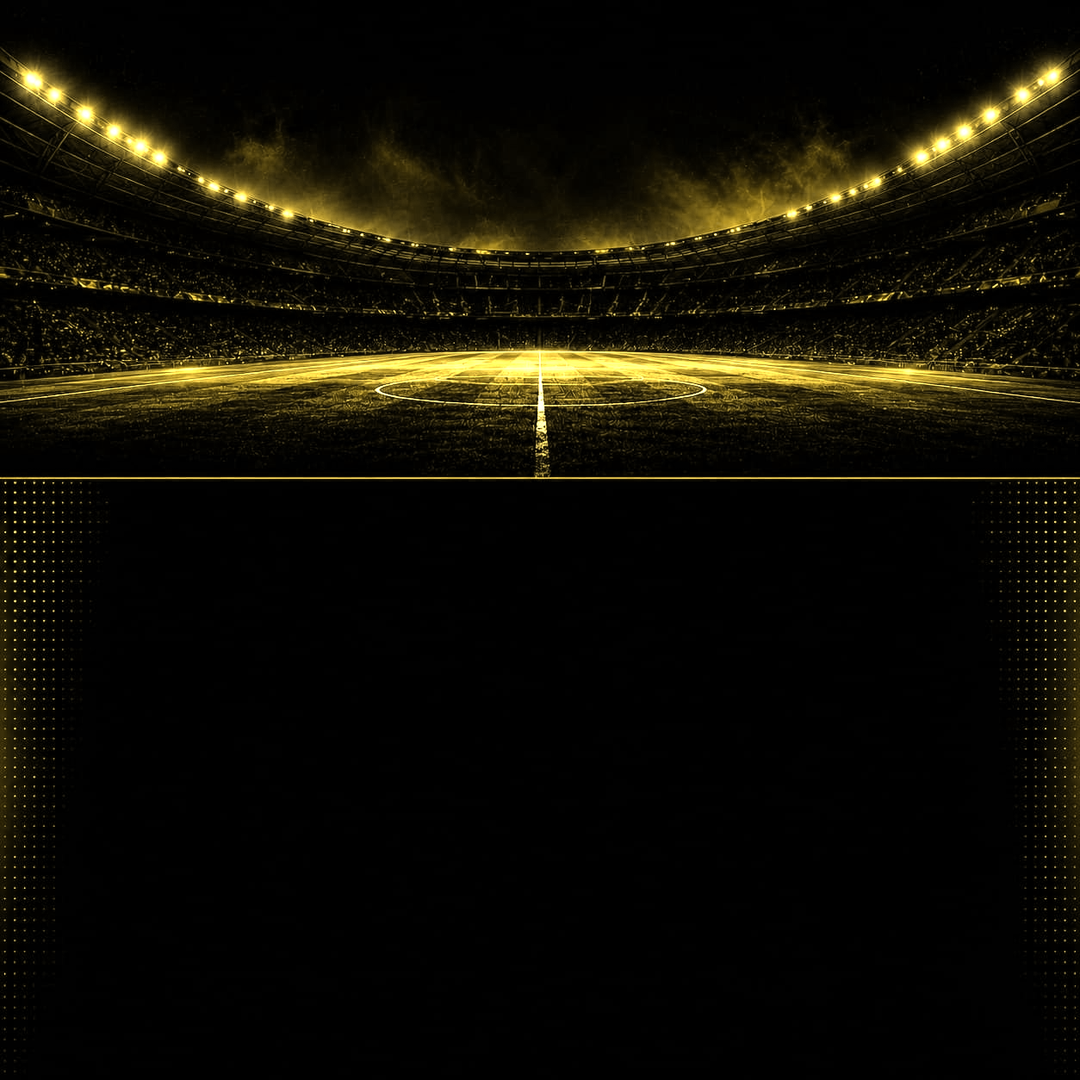
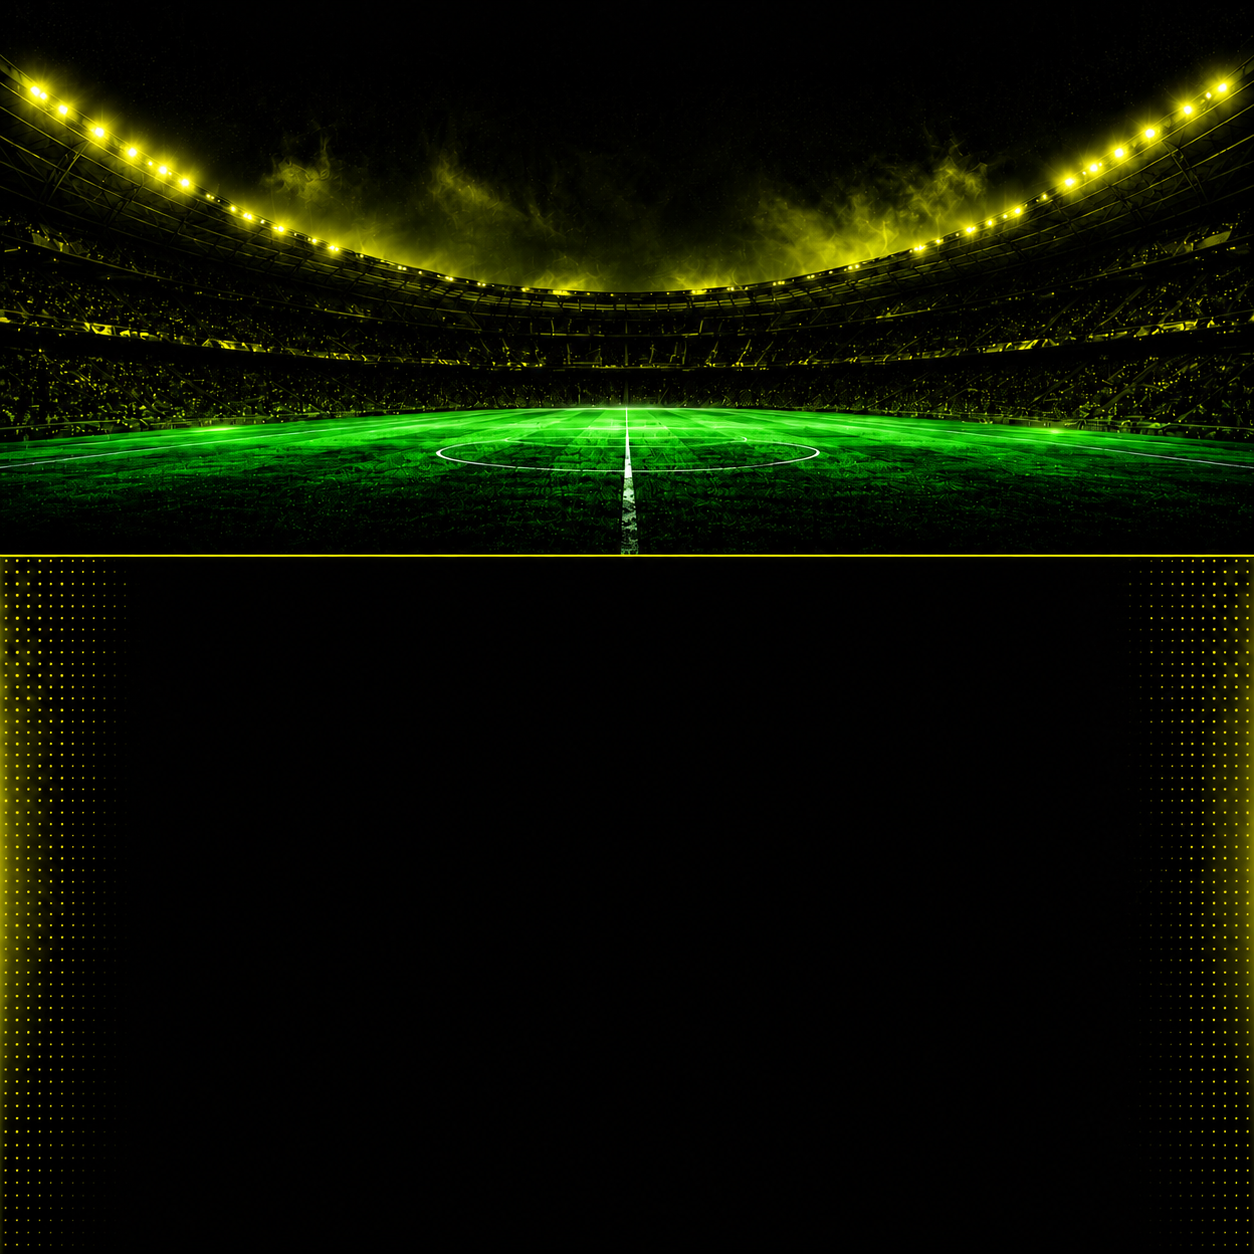
Stadion: nieuwe foto-set groen gras + gekleurde verlichting

diff --git a/src/constants/themes.js b/src/constants/themes.js
@@ -16,10 +16,6 @@ export const THEMES = [
   { id:"chevron-cobalt",   name:"Chevron · Cobalt",   ac:"#2563eb", bg:"#060812", pattern:"chevron" },
   { id:"chevron-coral",    name:"Chevron · Coral",    ac:"#f97316", bg:"#0a0703", pattern:"chevron" },
   { id:"chevron-magenta",  name:"Chevron · Magenta",  ac:"#d946ef", bg:"#0a0610", pattern:"chevron" },
-  { id:"stadium",          name:"Stadion · Oranje",   ac:"#ff8214", ac2:"#ff8214", bg:"#0a0a0d", pattern:"photo", bgImage:"/images/stadion3/stadion3-oranje.png" },
-  { id:"stadium-goud",     name:"Stadion · Goud",     ac:"#ffcd1e", ac2:"#ffcd1e", bg:"#0a0a0d", pattern:"photo", bgImage:"/images/stadion3/stadion3-geel.png" },
-  { id:"stadium-rood",     name:"Stadion · Rood",     ac:"#ff2d2d", ac2:"#ff2d2d", bg:"#0a0a0d", pattern:"photo", bgImage:"/images/stadion3/stadion3-rood.png" },
-  { id:"stadium-smaragd",  name:"Stadion · Smaragd",  ac:"#28dc5a", ac2:"#28dc5a", bg:"#0a0a0d", pattern:"photo", bgImage:"/images/stadion3/stadion3-groen.png" },
   { id:"grass",            name:"Veld · Smaragd",     ac:"#10b981", bg:"#050a08", pattern:"grass"   },
   { id:"grass-lime",       name:"Veld · Lime",        ac:"#84cc16", bg:"#070a05", pattern:"grass"   },
   { id:"grass-teal",       name:"Veld · Teal",        ac:"#14b8a6", bg:"#050a09", pattern:"grass"   },
@@ -61,16 +57,18 @@ export const THEMES = [
   { id:"chevron-oranje-zwart", name:"Chevron · Oranje/Zwart", ac:"#fb923c", ac2:"#6b7280", bg:"#0a0704", pattern:"chevron" },
   { id:"chevron-groen-geel", name:"Chevron · Groen/Geel", ac:"#10b981", ac2:"#facc15", bg:"#070a05", pattern:"chevron" },
   { id:"chevron-zwart-rood", name:"Chevron · Zwart/Rood", ac:"#8b939c", ac2:"#e53935", bg:"#0a0606", pattern:"chevron" },
-  // ── Stadion ──
-  { id:"stadium-blauw",        name:"Stadion · Blauw",        ac:"#2d5fff", ac2:"#2d5fff", bg:"#0a0a0d", pattern:"photo", bgImage:"/images/stadion3/stadion3-blauw.png" },
-  { id:"stadium-groen",        name:"Stadion · Groen",        ac:"#28dc5a", ac2:"#28dc5a", bg:"#0a0a0d", pattern:"photo", bgImage:"/images/stadion3/stadion3-groen.png" },
-  { id:"stadium-geel",         name:"Stadion · Geel",         ac:"#ffcd1e", ac2:"#ffcd1e", bg:"#0a0a0d", pattern:"photo", bgImage:"/images/stadion3/stadion3-geel.png" },
-  { id:"stadium-oranje",       name:"Stadion · Oranje",       ac:"#ff8214", ac2:"#ff8214", bg:"#0a0a0d", pattern:"photo", bgImage:"/images/stadion3/stadion3-oranje.png" },
-  { id:"stadium-rood-blauw",   name:"Stadion · Rood/Blauw",   ac:"#ff2d2d", ac2:"#2d5fff", bg:"#0a0a0d", pattern:"photo", bgImage:"/images/stadion3/stadion3-blauw-rood.png" },
-  { id:"stadium-wit-groen",    name:"Stadion · Wit/Groen",    ac:"#ebf0ff", ac2:"#28dc5a", bg:"#0a0a0d", pattern:"photo", bgImage:"/images/stadion3/stadion3-groen.png" },
-  { id:"stadium-oranje-zwart", name:"Stadion · Oranje/Zwart", ac:"#ff8214", ac2:"#6b7280", bg:"#0a0a0d", pattern:"photo", bgImage:"/images/stadion3/stadion3-oranje.png" },
-  { id:"stadium-groen-geel",   name:"Stadion · Groen/Geel",   ac:"#28dc5a", ac2:"#ffcd1e", bg:"#0a0a0d", pattern:"photo", bgImage:"/images/stadion3/stadion3-geel-groen.png" },
-  { id:"stadium-zwart-rood",   name:"Stadion · Zwart/Rood",   ac:"#8b939c", ac2:"#ff2d2d", bg:"#0a0a0d", pattern:"photo", bgImage:"/images/stadion3/stadion3-rood.png" },
+  // ── Stadion (groen gras + gekleurde verlichting, eigen foto's) ──
+  { id:"stadium-blauw",      name:"Stadion · Blauw",      ac:"#2d7fff", ac2:"#2d7fff", bg:"#0a0a0d", pattern:"photo", bgImage:"/images/stadion3/stadion3-blauw.png" },
+  { id:"stadium-rood",       name:"Stadion · Rood",       ac:"#ff3434", ac2:"#ff3434", bg:"#0a0a0d", pattern:"photo", bgImage:"/images/stadion3/stadion3-rood.png" },
+  { id:"stadium-groen",      name:"Stadion · Groen",      ac:"#28dc5a", ac2:"#28dc5a", bg:"#0a0a0d", pattern:"photo", bgImage:"/images/stadion3/stadion3-groen.png" },
+  { id:"stadium-oranje",     name:"Stadion · Oranje",     ac:"#ff8c1e", ac2:"#ff8c1e", bg:"#0a0a0d", pattern:"photo", bgImage:"/images/stadion3/stadion3-oranje.png" },
+  { id:"stadium-geel",       name:"Stadion · Geel",       ac:"#ffdb1e", ac2:"#ffdb1e", bg:"#0a0a0d", pattern:"photo", bgImage:"/images/stadion3/stadion3-geel.png" },
+  { id:"stadium-blauw-rood", name:"Stadion · Blauw/Rood", ac:"#2d7fff", ac2:"#ff3434", bg:"#0a0a0d", pattern:"photo", bgImage:"/images/stadion3/stadion3-blauw-rood.png" },
+  { id:"stadium-blauw-wit",  name:"Stadion · Blauw/Wit",  ac:"#2d7fff", ac2:"#ebf0ff", bg:"#0a0a0d", pattern:"photo", bgImage:"/images/stadion3/stadion3-blauw-wit.png" },
+  { id:"stadium-groen-wit",  name:"Stadion · Groen/Wit",  ac:"#28dc5a", ac2:"#ebf0ff", bg:"#0a0a0d", pattern:"photo", bgImage:"/images/stadion3/stadion3-groen-wit.png" },
+  { id:"stadium-rood-geel",  name:"Stadion · Rood/Geel",  ac:"#ff3434", ac2:"#ffdb1e", bg:"#0a0a0d", pattern:"photo", bgImage:"/images/stadion3/stadion3-rood-geel.png" },
+  { id:"stadium-rood-wit",   name:"Stadion · Rood/Wit",   ac:"#ff3434", ac2:"#ebf0ff", bg:"#0a0a0d", pattern:"photo", bgImage:"/images/stadion3/stadion3-rood-wit.png" },
+  { id:"stadium-geel-groen", name:"Stadion · Geel/Groen", ac:"#ffdb1e", ac2:"#28dc5a", bg:"#0a0a0d", pattern:"photo", bgImage:"/images/stadion3/stadion3-geel-groen.png" },
   // ── Veld ──
   { id:"grass-rood", name:"Veld · Rood", ac:"#e53935", bg:"#0f0707", pattern:"grass" },
   { id:"grass-blauw", name:"Veld · Blauw", ac:"#1e88e5", bg:"#07080f", pattern:"grass" },
